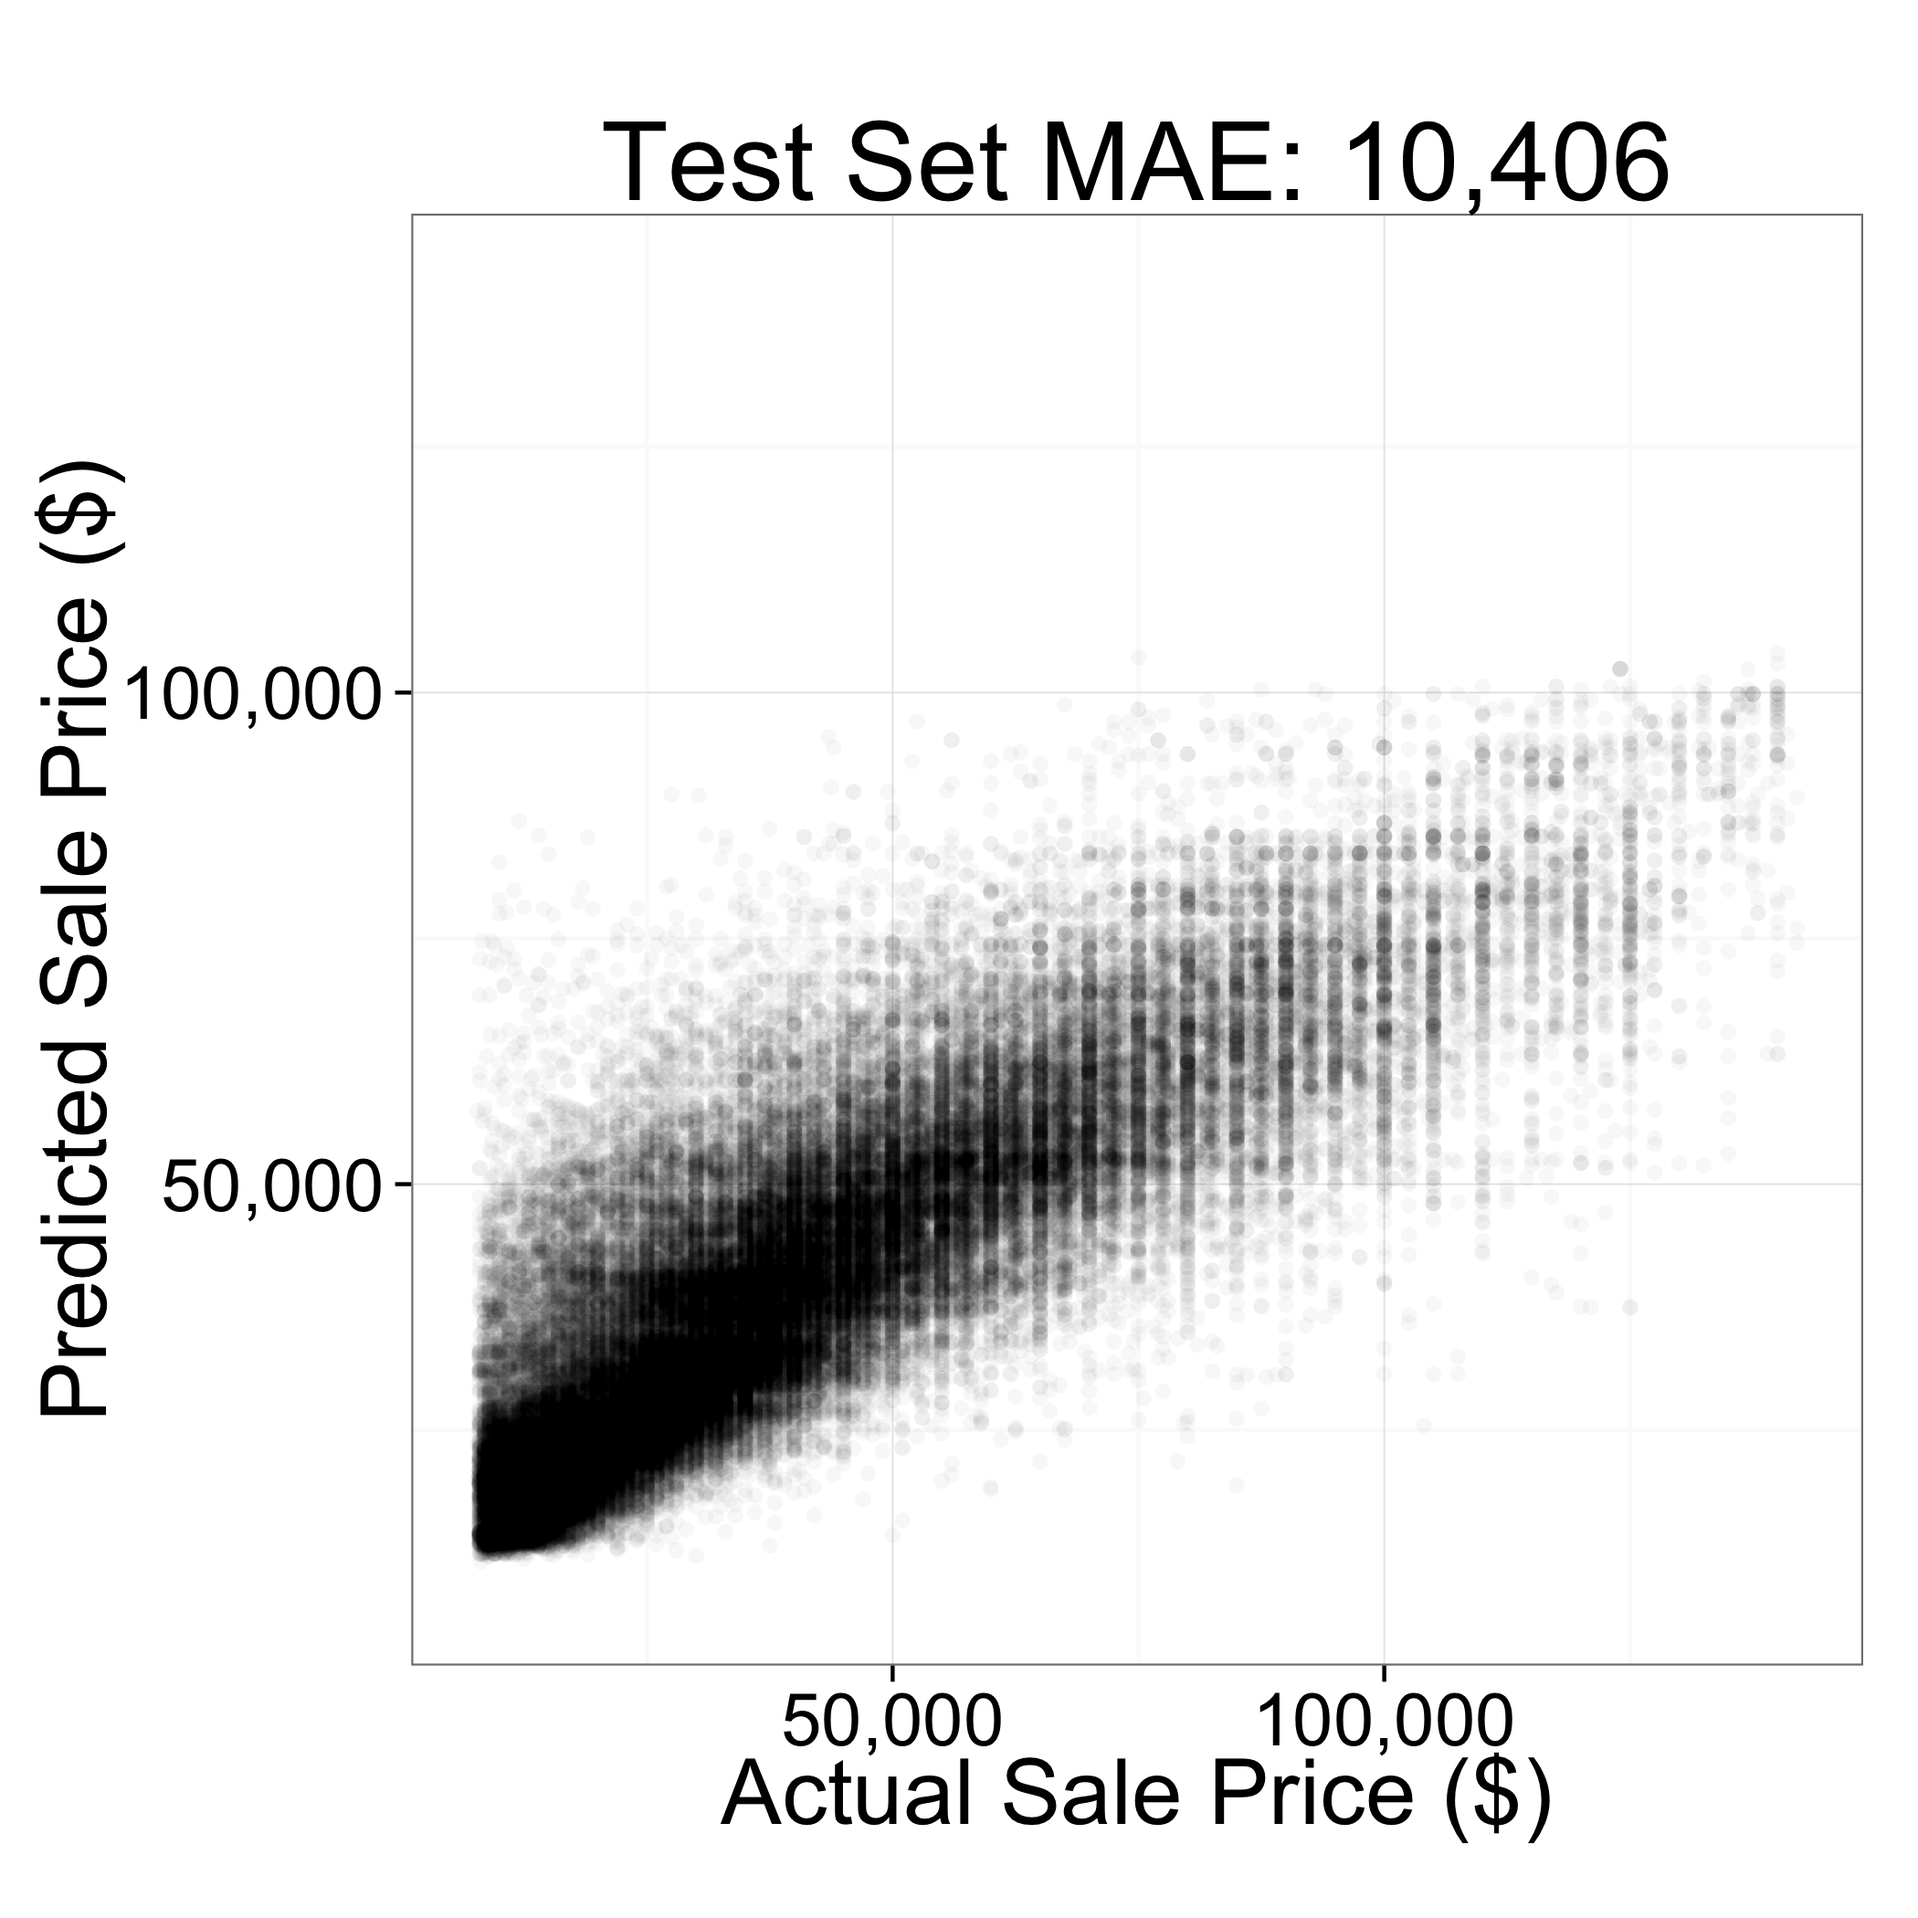
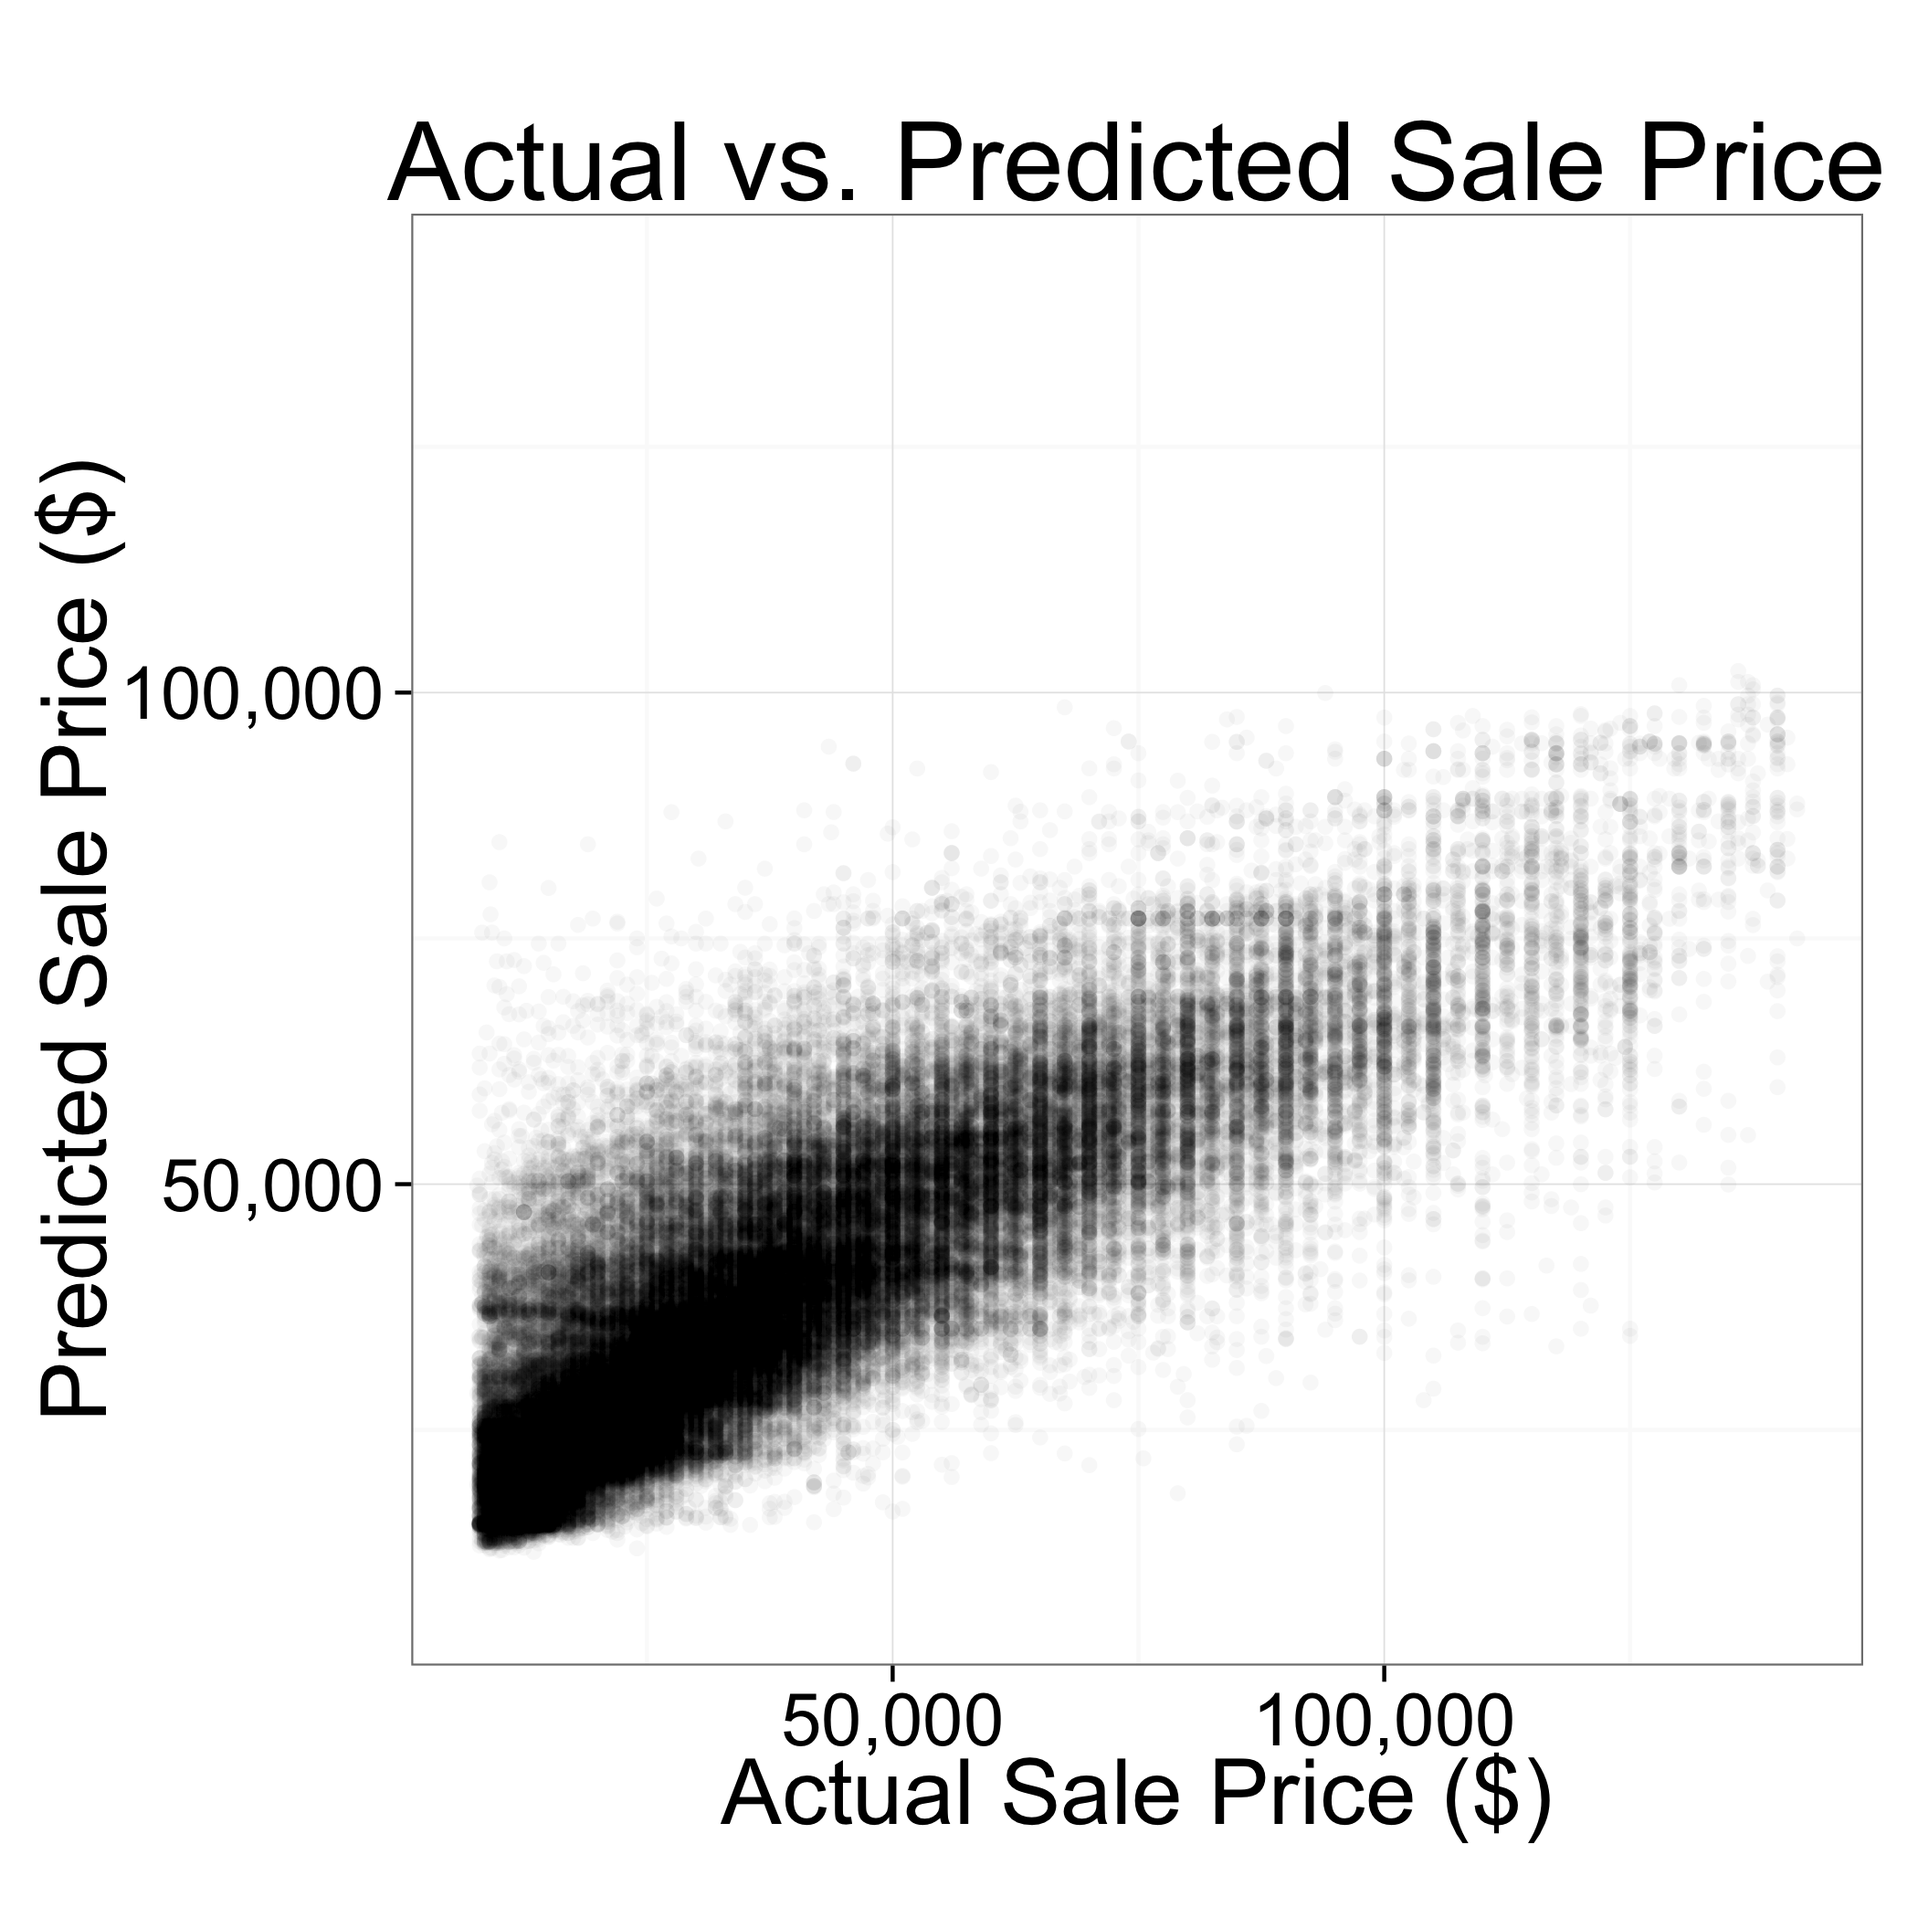
add title

Changed region(s): [[0.2476, 0.3405, 0.9286, 0.8357], [0.1857, 0.0619, 0.9905, 0.1238]]

diff --git a/reveal.js/slides.md b/reveal.js/slides.md
@@ -299,7 +299,8 @@ test$Predicted <- predict(rf, test[feature_names])
 	
 # generate plot
 ggplot(test) + 
-  geom_point(aes(x=SalePrice, y=Predicted), alpha=.03)
+  geom_point(aes(x=SalePrice, y=Predicted), alpha=.03) + 
+  ggtitle("Actual vs. Predicted Sale Price") +
   xlab("Actual Sale Price ($)") +
   ylab("Predicted Sale Price ($)") +
   scale_y_continuous(labels = comma, limits=range(test$SalePrice)) +
